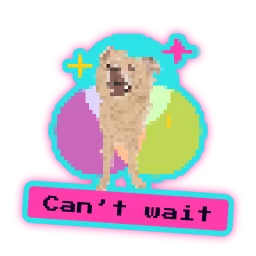
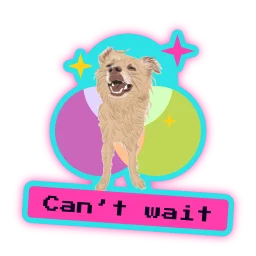
Finn stays smooth on the website's stickers: no pixelation, still neon
Claude-Session: https://claude.ai/code/session_0165PeHYDGpycZrJhnd8mot5

diff --git a/public/finn-stickers.js b/public/finn-stickers.js
@@ -6,7 +6,7 @@ const SIZE = 512;
 const EDGE = 11; // the white sticker edge
 const SERIF = '"Instrument Serif", "Iowan Old Style", "Palatino Linotype", Georgia, serif';
 // How a sticker looks: the app's (green, a serif caption, a white edge), or the website's retro one
-// (neon, pixel-art Finn, an arcade caption, a glowing cyan edge).
+// (neon circles, an arcade caption, a glowing cyan edge).
 const LOOKS = {
   plain: {
     green: '#0b7a5c',
@@ -26,7 +26,7 @@ const LOOKS = {
     font: '"Press Start 2P", monospace',
     caption: ['#ff3cac', '#0d0221'],
     edge: '#2de2e6',
-    pixels: 72, // Finn as pixel art, this many across
+    arcade: true, // the caption's pixel font is wide: smaller, on a square tag
   },
 };
 let look = LOOKS.plain;
@@ -215,21 +215,12 @@ function drawFace(ctx, sticker, dog) {
   if (sticker.extra.includes('confetti')) EXTRAS.confetti(ctx, x, y, w, h);
   ctx.drawImage(dog, x, y, w, h);
   for (const [i, draw] of extras.entries()) if (sticker.extra[i] !== 'confetti') draw(ctx, x, y, w, h);
-  if (look.pixels) {
-    // Pixel art: down to a few dozen pixels across, and back up with hard edges.
-    const small = Object.assign(document.createElement('canvas'), { width: look.pixels, height: look.pixels });
-    small.getContext('2d').drawImage(ctx.canvas, 0, 0, look.pixels, look.pixels);
-    ctx.clearRect(0, 0, SIZE, SIZE);
-    ctx.imageSmoothingEnabled = false;
-    ctx.drawImage(small, 0, 0, SIZE, SIZE);
-    ctx.imageSmoothingEnabled = true;
-  }
 
   // The caption, on a tilted green pill over Finn's paws.
-  let px = look.pixels ? 34 : 66;
+  let px = look.arcade ? 34 : 66;
   const font = (n) => `400 ${n}px ${look.font}`;
   ctx.font = font(px);
-  while (ctx.measureText(sticker.caption).width > 360 && px > (look.pixels ? 16 : 40)) ctx.font = font((px -= 2));
+  while (ctx.measureText(sticker.caption).width > 360 && px > (look.arcade ? 16 : 40)) ctx.font = font((px -= 2));
   const tw = ctx.measureText(sticker.caption).width;
   ctx.save();
   ctx.translate(256, 418);
@@ -237,10 +228,10 @@ function drawFace(ctx, sticker, dog) {
   ctx.beginPath();
   ctx.roundRect(
     -tw / 2 - 30,
-    -px * 0.72 - (look.pixels ? 8 : 0),
+    -px * 0.72 - (look.arcade ? 8 : 0),
     tw + 60,
-    px * 1.38 + (look.pixels ? 16 : 0),
-    look.pixels ? 8 : 999,
+    px * 1.38 + (look.arcade ? 16 : 0),
+    look.arcade ? 8 : 999,
   );
   ctx.fillStyle = look.caption[0];
   ctx.fill();
@@ -252,7 +243,7 @@ function drawFace(ctx, sticker, dog) {
 }
 
 /** A sticker as a PNG blob: the picture, a white edge all round it, and a soft shadow. With
- * `{ retro: true }`, the website's look: neon, pixel art, and a glowing cyan edge. */
+ * `{ retro: true }`, the website's look: neon, an arcade caption, and a glowing cyan edge. */
 export async function makeSticker(sticker, { retro = false } = {}) {
   look = retro ? LOOKS.retro : LOOKS.plain;
   const [dog] = await Promise.all([loadDog(), loadFont()]);

diff --git a/DESIGN.md b/DESIGN.md
@@ -68,7 +68,7 @@ Headlines are chrome; the sunset gradient (with a soft glow) is the only emphasi
 
 ## Imagery and motion
 
-- **Finn's stickers on the website** (`img/stickers/retro/`, `npm run stickers`): pixel-art Finn on neon circles, an arcade caption on a magenta tag, and a glowing cyan edge. The poll page keeps the plain stickers.
+- **Finn's stickers on the website** (`img/stickers/retro/`, `npm run stickers`): Finn (smooth, never pixelated) on neon circles, an arcade caption on a magenta tag, and a glowing cyan edge. The poll page keeps the plain stickers.
 - **Website logo** (`logo-retro.svg`): the same three circles as neon rings in cyan, magenta and yellow, with a sunset where all three meet. It's the website's header mark and tab icon; the app keeps the green logo below.
 - **Logo:** three circles in a triangle, a three-way Venn. One shade where one circle covers, a deeper one where two overlap, and the deepest green where all three meet. Each shade is a green gradient. The header shows `favicon.svg` itself, so there is one source.
 - The hero's background is the same three circles, very large and soft (radial `--mint` glows), behind the start card.

diff --git a/.claude/skills/venn-design/SKILL.md b/.claude/skills/venn-design/SKILL.md
@@ -97,7 +97,7 @@ the same PR** (and CLAUDE.md if it's a rule that matters in review).
 - Simple and sexy. Four values, framed as benefits (what people get), not features.
 - **Retrofuturist** (website only, never the app or poll): a synthwave night of stars and scanlines,
   chrome Orbitron headlines with a sunset gradient on the key words, neon cyan and magenta, arcade
-  pixel labels, a striped sun on a moving grid, a neon logo (`logo-retro.svg`) and pixel-art Finn stickers (`img/stickers/retro/`). One look day or
+  pixel labels, a striped sun on a moving grid, a neon logo (`logo-retro.svg`) and Finn stickers on neon circles (`img/stickers/retro/`; Finn stays smooth, never chunky pixels). One look day or
   night. DESIGN.md has the tokens.
 - The hero Venn tells the story in motion, **from noise to a plan**: a group chat's messages bounce
   around, fly to the three friends, the circles drift together and the day that works pops out, then
